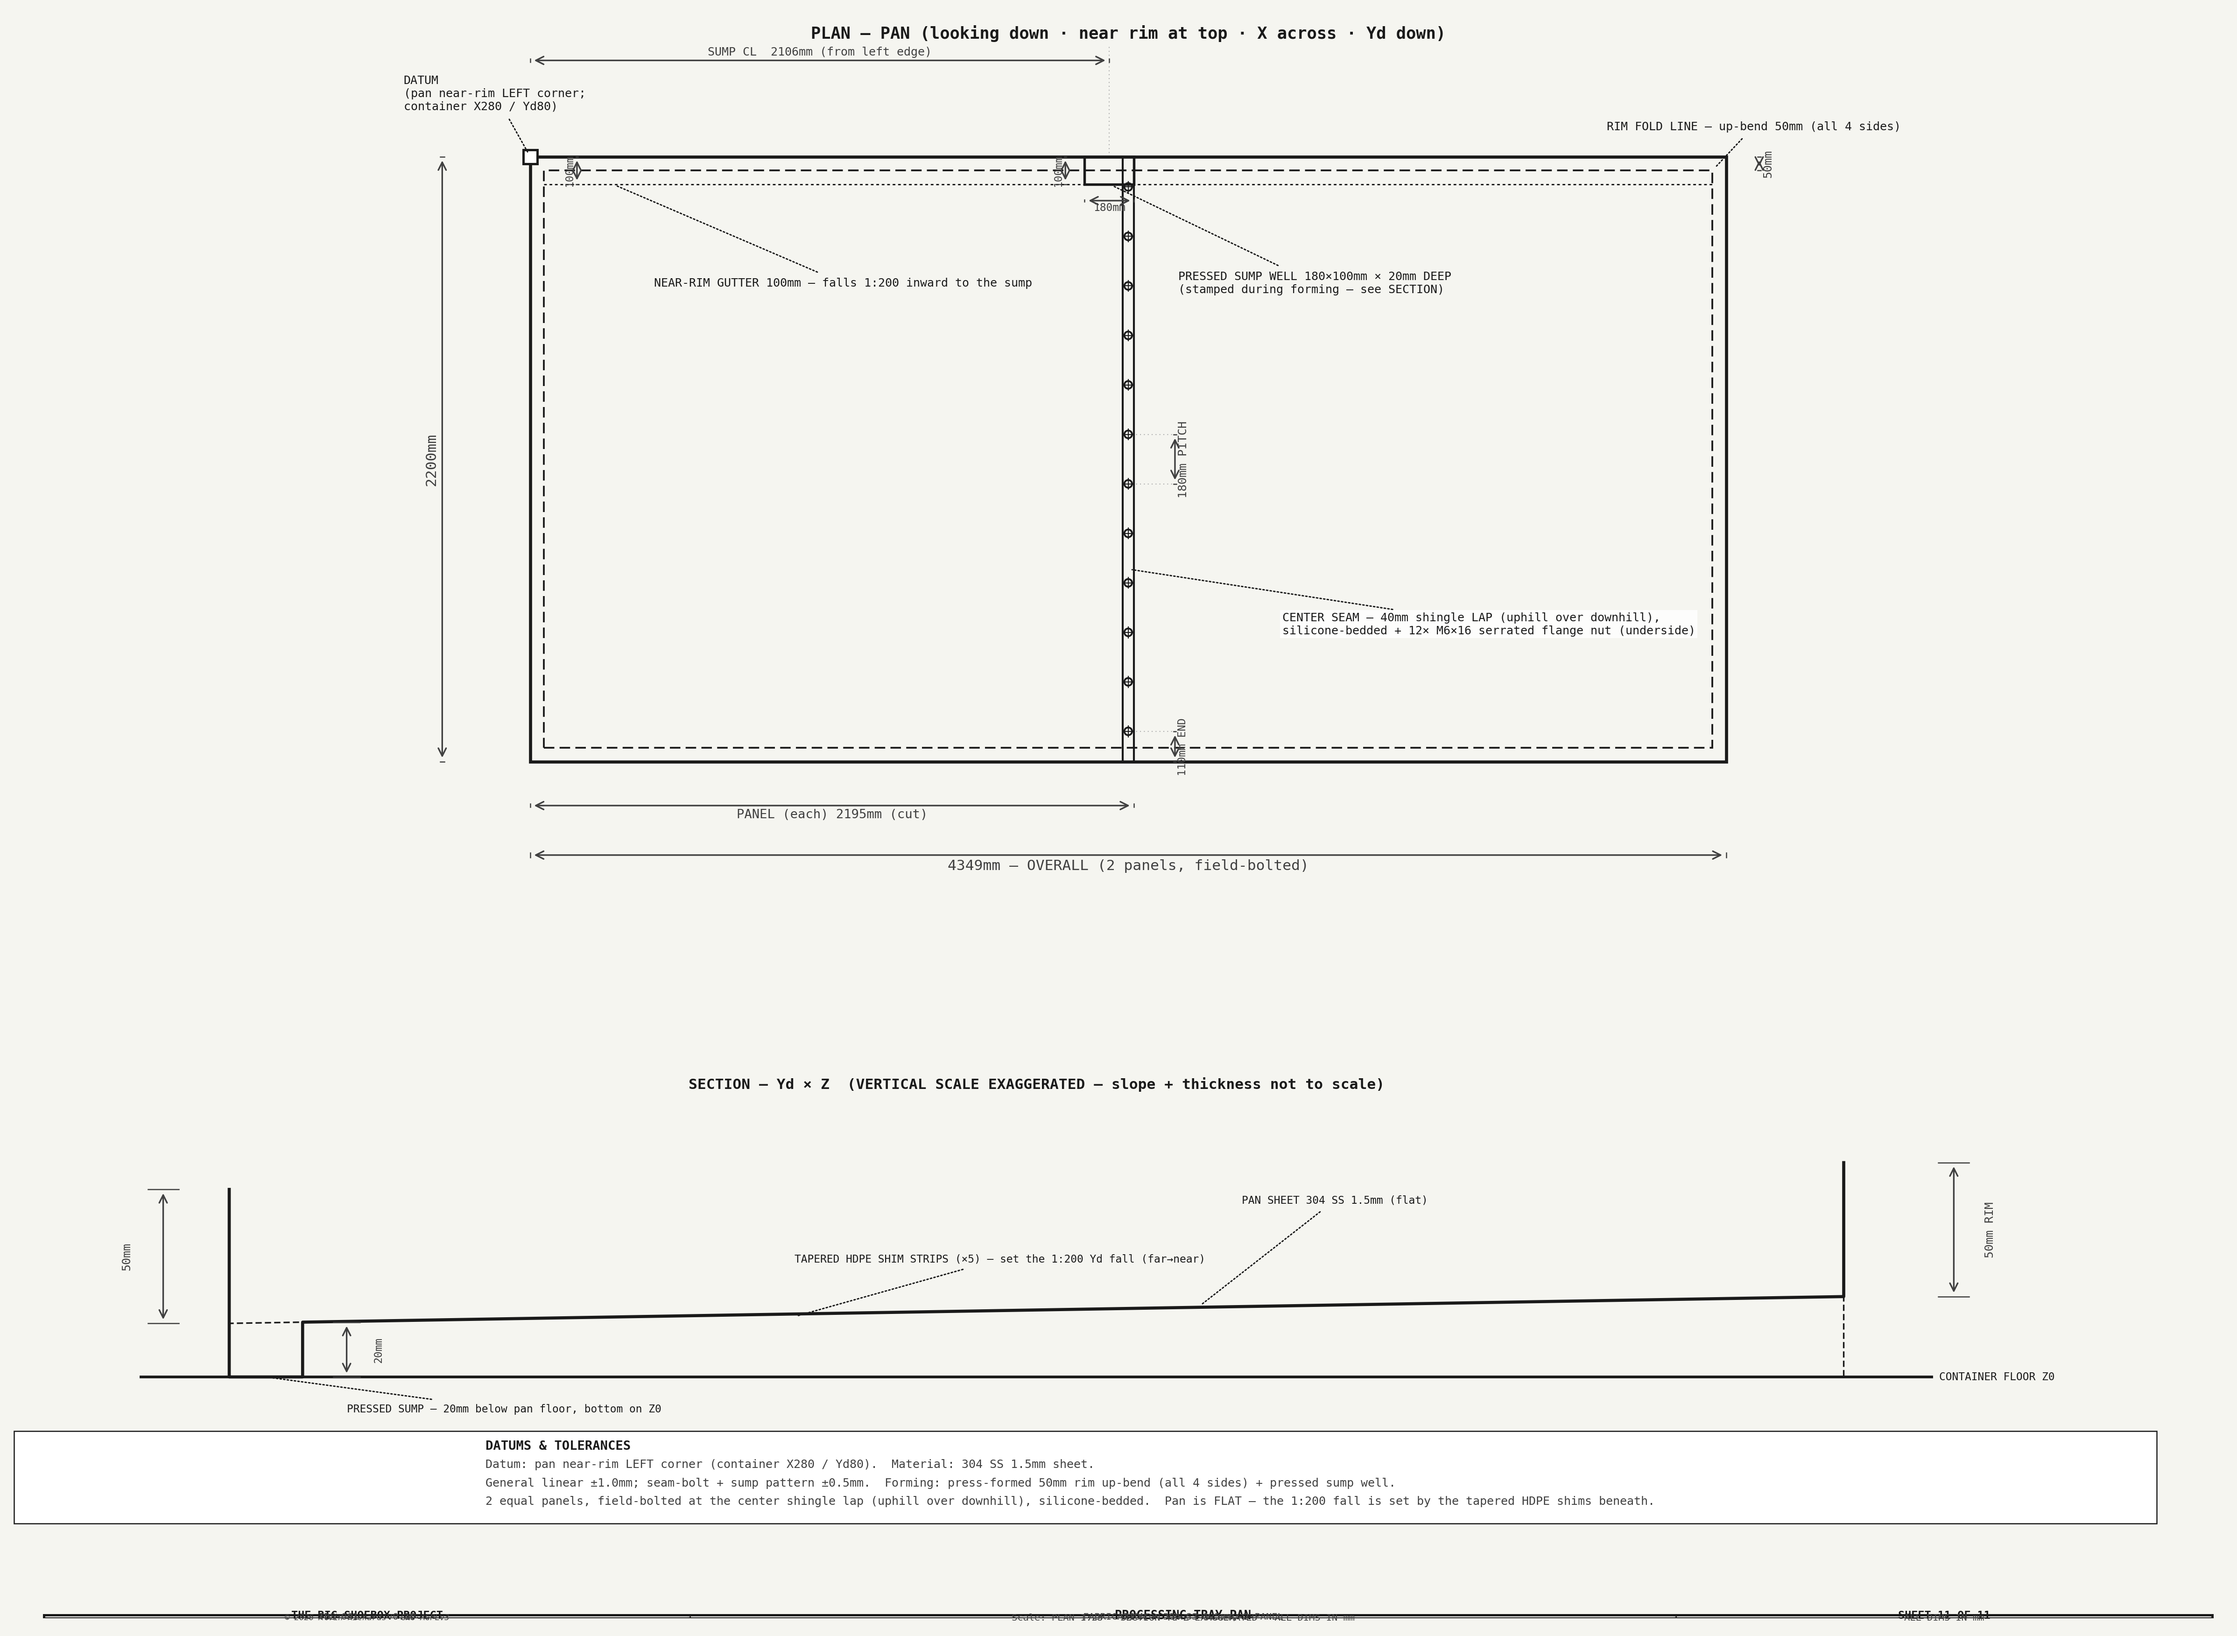
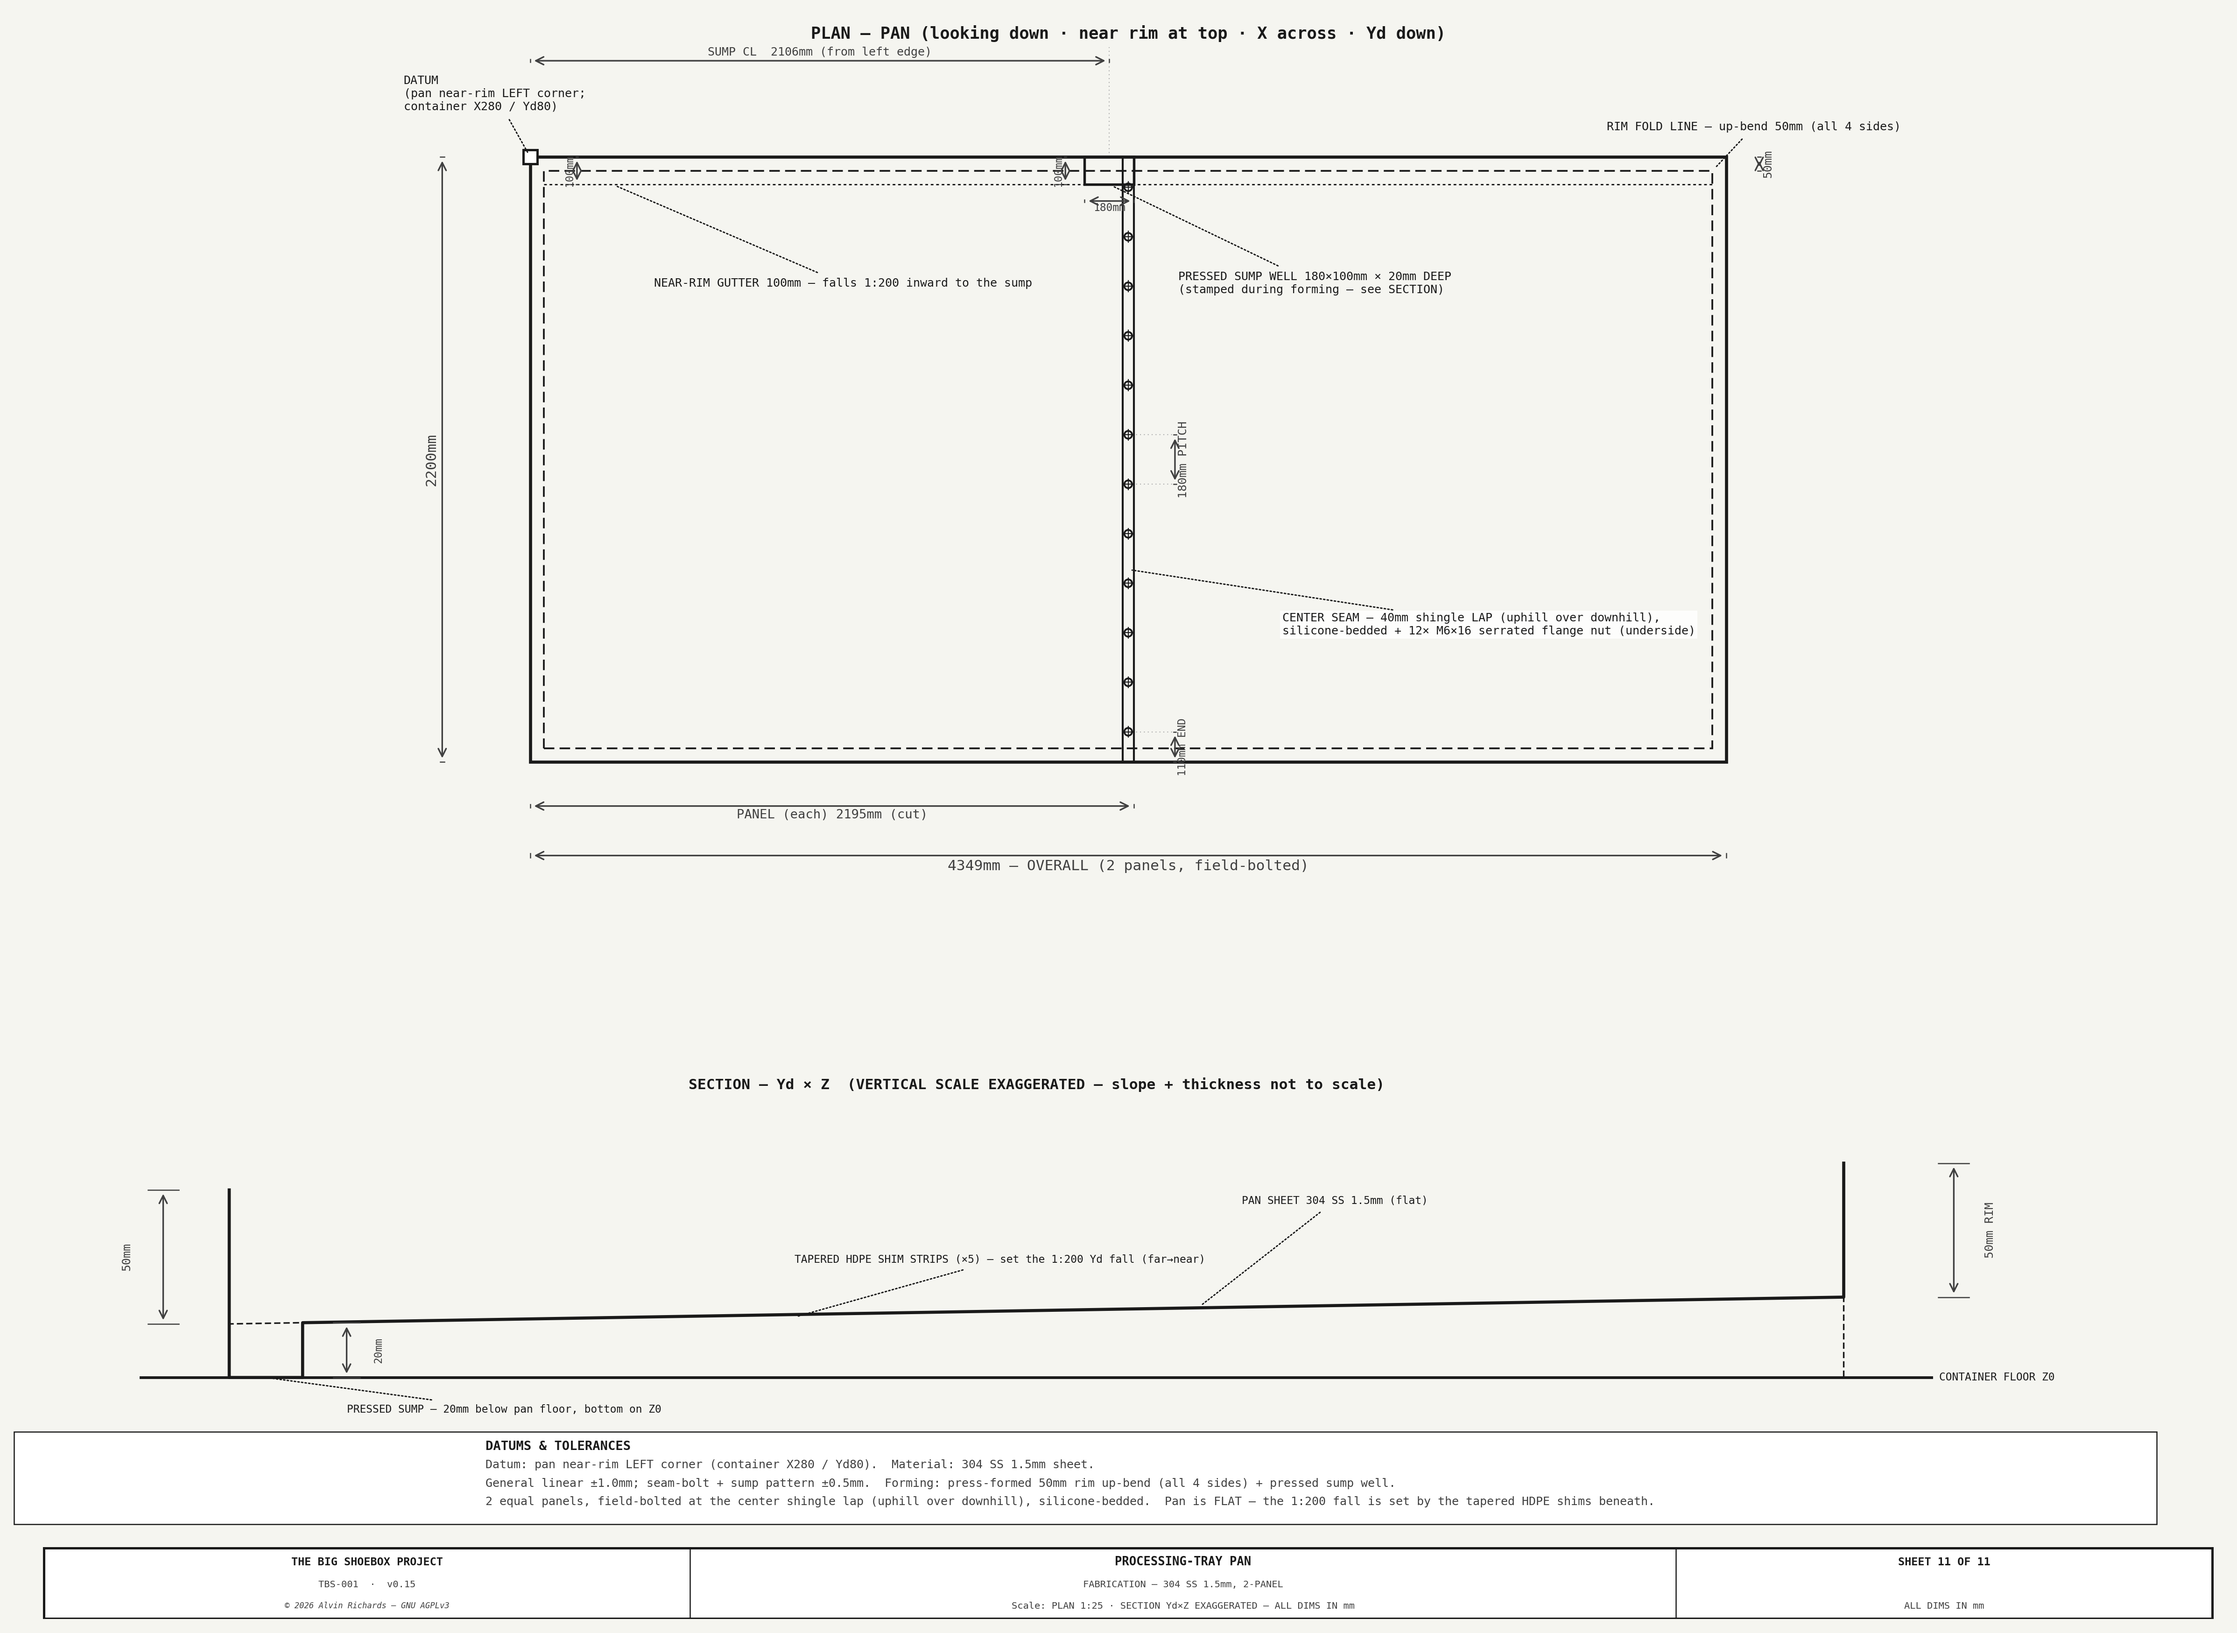
Spray/tray Sheet 11: fix the title block fit (was collapsed into a thin strip)
The title_block call omitted height=0.7 (sheets 9/10 have it), so the block
defaulted to a 4.5%-tall strip and the three rows overlapped. Added height=0.7
and matched the ax height to the other sheets.

diff --git a/src/generators/generate_spray_bar_diagram.py b/src/generators/generate_spray_bar_diagram.py
@@ -2626,12 +2626,13 @@ def draw_sheet11():
     ], 20, 92, spacing=22, fs=6, font=FONT, width=56)
 
     # ══ title block ═══════════════════════════════════════════════════════════
-    ax_tb = fig.add_axes([0.04, 0.005, 0.92, 0.045])
+    ax_tb = fig.add_axes([0.04, 0.005, 0.92, 0.06])
     ax_tb.set_xlim(0, 1); ax_tb.set_ylim(0, 1); ax_tb.axis("off")
     title_block(ax_tb, f"SHEET 11 OF {TOTAL_SHEETS}",
                 drawing_title="PROCESSING-TRAY PAN",
                 subtitle="FABRICATION — 304 SS 1.5mm, 2-PANEL",
-                scale_note="PLAN 1:25 · SECTION Yd×Z EXAGGERATED — ALL DIMS IN mm")
+                scale_note="PLAN 1:25 · SECTION Yd×Z EXAGGERATED — ALL DIMS IN mm",
+                height=0.7)
     _save(fig, "spray-bar-sheet11")
 
 
